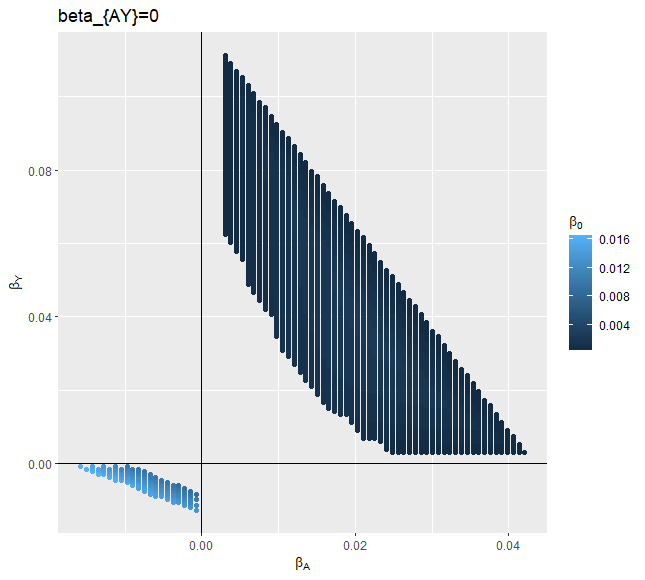
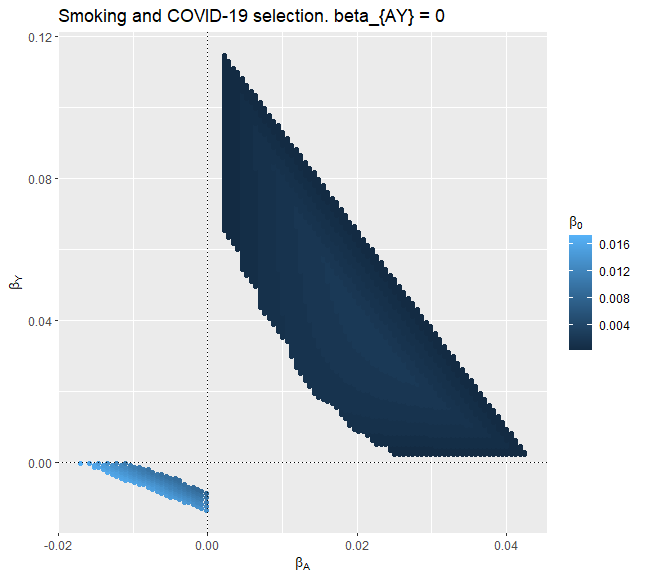
upd SmokingCollider.png

diff --git a/under_the_hood.md b/under_the_hood.md
@@ -130,9 +130,12 @@ x$param
 We can see that there are many values of $\beta_A$ and $\beta_Y$ which meet the target odds ratio. In order to get a feel for these, let's visualise them. 
 
 ```{r}
-x$scatter()
+x$scatter()+ 
+  ggplot2::geom_vline(xintercept=0, linetype="dotted") + 
+  ggplot2::geom_hline(yintercept=0, linetype="dotted") + 
+  ggplot2::ggtitle("Smoking and COVID-19 selection. beta_{AY} = 0")
 ```
-![Smoking selection effects](/00RESEARCH/repo/AscRtain.shiny/app/www/SmokingCollider.png)   
+![](/00RESEARCH/repo/AscRtain.shiny/app/www/SmokingCollider.png)   
 
 We can see from the scatter plot above, that with relatively subtle changes in selection effects, we can induce ORs of a large magnitude. This example has excluded the possibility of the interactive effect on sample membership of both COVID-19 and smoking status, but this further complicates matters. There is a more comprehensive discussion of this in the medrxiv [preprint](https://www.medrxiv.org/content/10.1101/2020.05.04.20090506v3) that accompanies this app. 
 
@@ -174,7 +177,7 @@ SmokingColliderCombined
   
 ```
 
-![Smoking and COVID-19 Selection Additive Selection Effects](/00RESEARCH/repo/AscRtain.shiny/app/www/SmokingColliderCombined.png)
+![](/00RESEARCH/repo/AscRtain.shiny/app/www/SmokingColliderCombined.png)
 
 
 We can see from the combined figure that there are a large range of possible selection values which could give rise to an observed relationship of a five-fold protective or risk-increasing relationship, under a true null effect. Remember, this is without including the possibility of interactive effects on participation for both exposure and outcome. It is also clear that these are highly sensitive to the specification of $\beta_0$, as the lower the baseline likelihood of sampling, the more likely it is that we are inducing relationships solely as a product of selection, as selected groups make up a larger proportion of the sample. We bounded this for the example above between 0 and 0.2, but it is clear that we only get such extreme ORs when $\beta_0$ is low. Unfortunately, $\beta_0$ is also one of the most difficult parameters to posit hypothetical values for as it is sensitive to study-specific sampling procedure and specification of target population. Moreover, these are often described in inadequate detail to parameterise this in secondary sensitivity analyses, which are most effective when carried out by primary researchers, to minimise researcher degrees of freedom.
@@ -228,7 +231,7 @@ x3$param %>%
     ggplot2::geom_vline(xintercept=0, size=0.2, linetype="dotted")
 
 ```
-![Smoking and COVID-19 Selection Twofold Additive Selection Effects](/00RESEARCH/repo/AscRtain.shiny/app/www/TwofoldSmokingColliderCombined.png)
+![](/00RESEARCH/repo/AscRtain.shiny/app/www/TwofoldSmokingColliderCombined.png)
 
 We can see from the Figure above, that the less extreme the OR, the more subtle the selection processes can be - as selection effects producing an observed OR under a true null clearly extend further towards the centre for the twofold risk ratios, relative to the fivefold changes. For a given observed relationship we are essentially positing (in the additive space) that our selection processes fall into the central region of the graph, which diminishes as odds ratios become less extreme.
 
